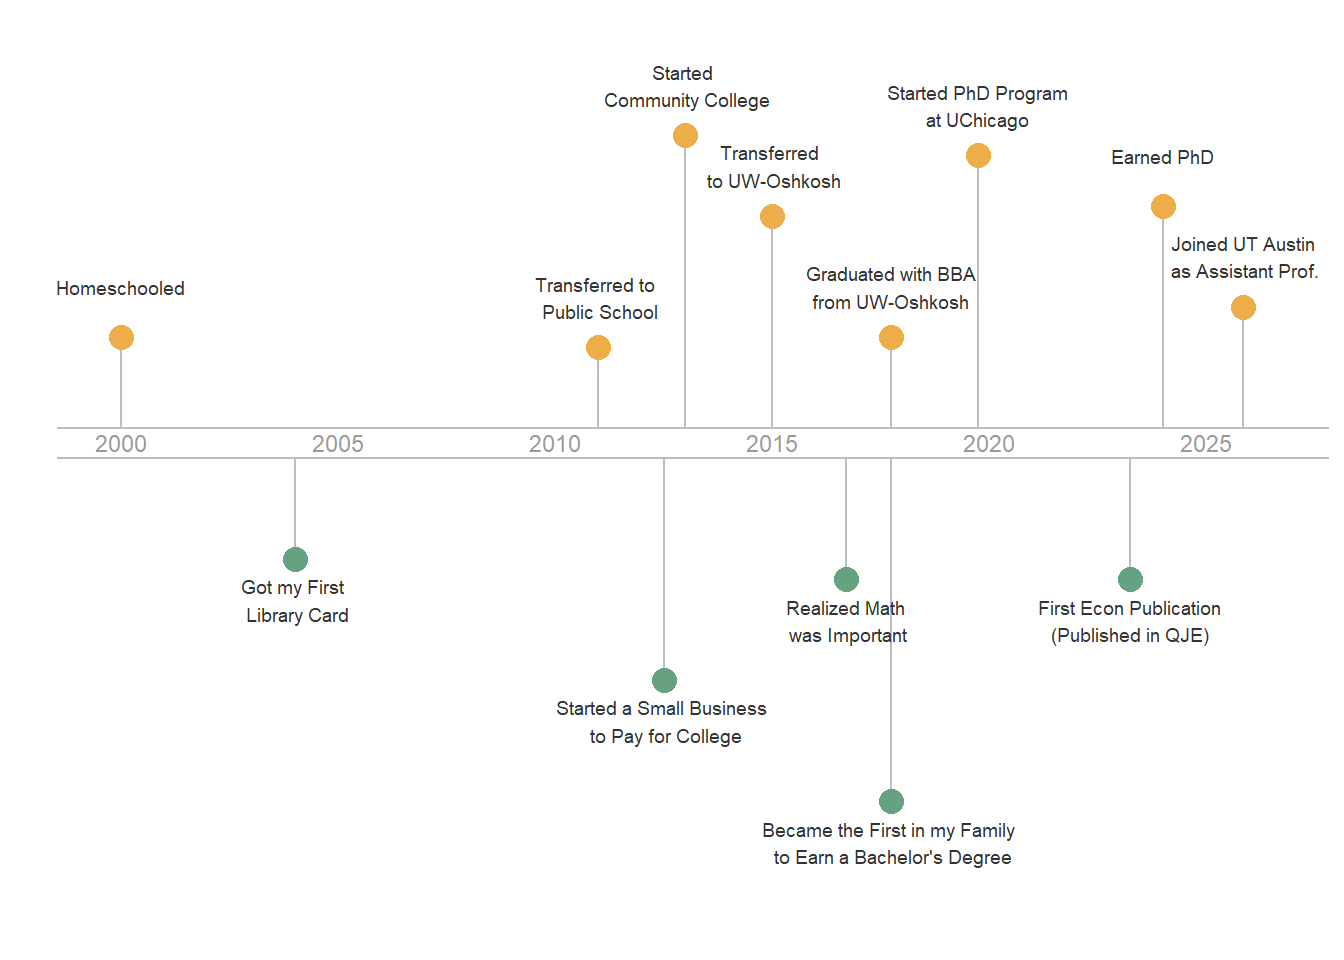
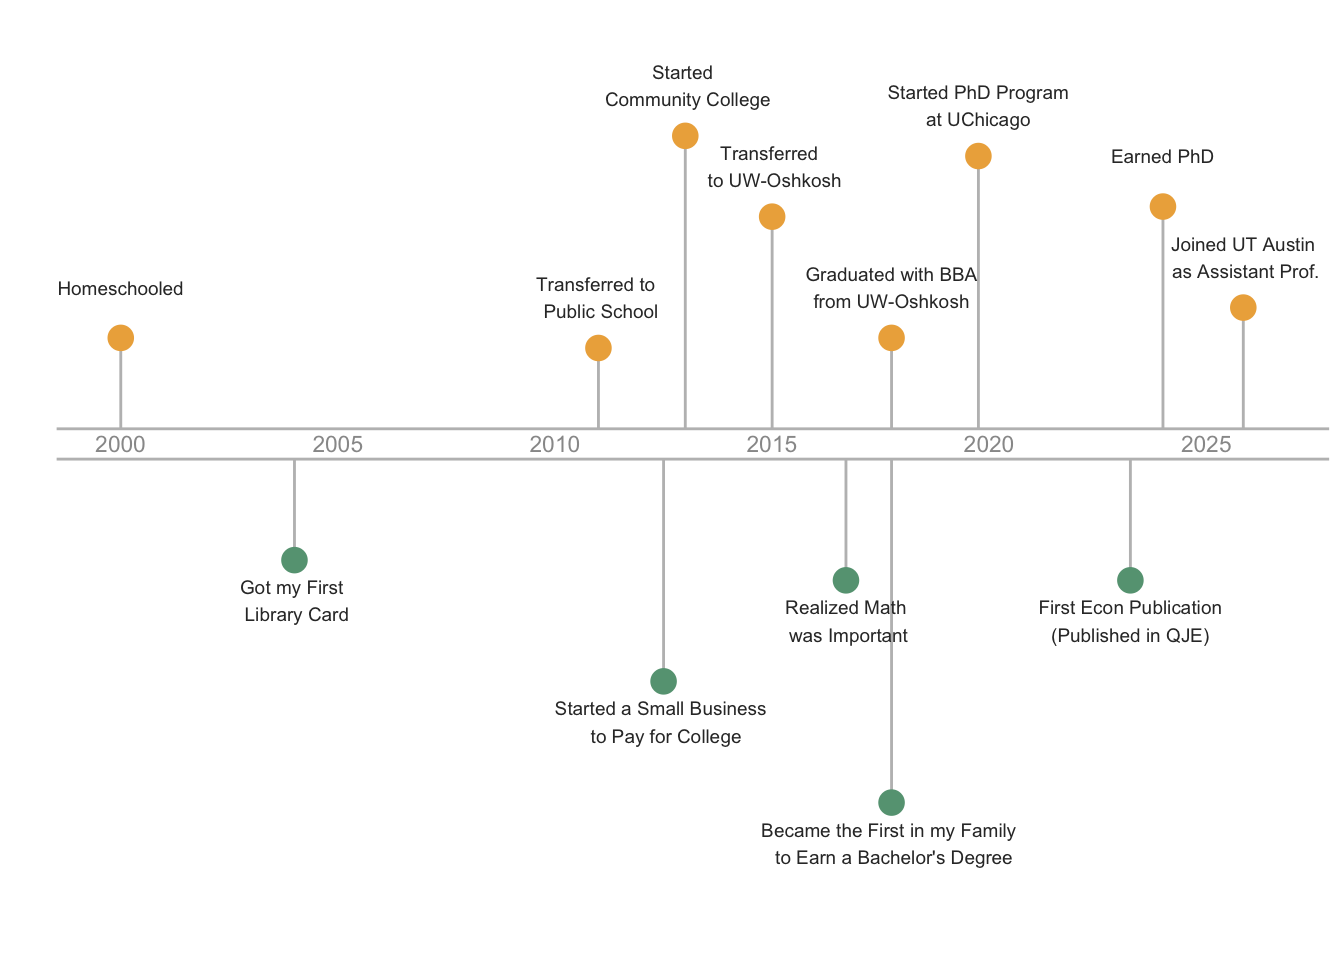
updated working paper

diff --git a/index.html b/index.html
@@ -13,7 +13,7 @@
 
 <title>About Me</title>
 
-<script src="site_libs/header-attrs-2.29/header-attrs.js"></script>
+<script src="site_libs/header-attrs-2.27/header-attrs.js"></script>
 <script src="site_libs/jquery-3.6.0/jquery-3.6.0.min.js"></script>
 <meta name="viewport" content="width=device-width, initial-scale=1" />
 <link href="site_libs/bootstrap-3.3.5/css/paper.min.css" rel="stylesheet" />
@@ -32,8 +32,8 @@
 <script src="site_libs/navigation-1.1/tabsets.js"></script>
 <link href="site_libs/highlightjs-9.12.0/default.css" rel="stylesheet" />
 <script src="site_libs/highlightjs-9.12.0/highlight.js"></script>
-<link href="site_libs/font-awesome-6.5.2/css/all.min.css" rel="stylesheet" />
-<link href="site_libs/font-awesome-6.5.2/css/v4-shims.min.css" rel="stylesheet" />
+<link href="site_libs/font-awesome-6.4.0/css/all.min.css" rel="stylesheet" />
+<link href="site_libs/font-awesome-6.4.0/css/v4-shims.min.css" rel="stylesheet" />
 
 <style type="text/css">
   code{white-space: pre-wrap;}
@@ -297,15 +297,15 @@ $(document).ready(function () {
 <img src="files/2022headshot.JPG" style="width:99%">
 </center>
 <p> </p>
-<p><font size="3">Hello! I’m an Assistant Professor in the LBJ school of
-Public Affairs at the University of Texas at Austin. I received my PhD
-from the Harris School of Public Policy at the University of Chicago
-where I also completed the Econometrics and Labor Economics fields in
-the Economics Department.</p>
+<p><font size="3">I’m an Assistant Professor in the LBJ School of Public
+Affairs at the University of Texas at Austin. I received my PhD from the
+Harris School of Public Policy at the University of Chicago where I also
+completed the Econometrics and Labor Economics fields in the Economics
+Department.</p>
 <p>In my research, I investigate the causes and consequences of
-inequality in variety of contexts. Much of my work is centered on
-understanding barriers to education –such as financial constraints or
-beliefs about academic abilities shaped by representation– and the role
+inequality in a variety of contexts. Much of my work is centered on
+understanding barriers to education — such as financial constraints or
+beliefs about academic abilities shaped by representation — and the role
 that education policy can play in eliminating them. I focus on
 non-traditional and informal educational contexts, including community
 colleges, homeschooling environments, and religious private schools.</p>

diff --git a/research.html b/research.html
@@ -13,7 +13,7 @@
 
 <title>Research</title>
 
-<script src="site_libs/header-attrs-2.29/header-attrs.js"></script>
+<script src="site_libs/header-attrs-2.27/header-attrs.js"></script>
 <script src="site_libs/jquery-3.6.0/jquery-3.6.0.min.js"></script>
 <meta name="viewport" content="width=device-width, initial-scale=1" />
 <link href="site_libs/bootstrap-3.3.5/css/paper.min.css" rel="stylesheet" />
@@ -32,8 +32,8 @@
 <script src="site_libs/navigation-1.1/tabsets.js"></script>
 <link href="site_libs/highlightjs-9.12.0/default.css" rel="stylesheet" />
 <script src="site_libs/highlightjs-9.12.0/highlight.js"></script>
-<link href="site_libs/font-awesome-6.5.2/css/all.min.css" rel="stylesheet" />
-<link href="site_libs/font-awesome-6.5.2/css/v4-shims.min.css" rel="stylesheet" />
+<link href="site_libs/font-awesome-6.4.0/css/all.min.css" rel="stylesheet" />
+<link href="site_libs/font-awesome-6.4.0/css/v4-shims.min.css" rel="stylesheet" />
 
 <style type="text/css">
   code{white-space: pre-wrap;}
@@ -303,16 +303,15 @@ $(document).ready(function () {
 <div id="working-papers" class="section level1">
 <h1><strong>Working Papers</strong></h1>
 <hr>
-<div
-id="impact-of-free-community-college-evidence-from-chicago-job-market-paper-link-to-paper"
+<div id="the-effect-of-merit-based-free-community-college-link-to-paper"
 class="section level4">
-<h4>“Impact of Free Community College: Evidence From Chicago”
-<strong>(Job Market Paper)</strong>
-<a href="https://uchicago.box.com/s/253wguiv6o0yd44abtu9mu3hpkqz4z9z"><strong>Link
+<h4>“The Effect of Merit-Based Free Community College”
+<a href="https://utexas.box.com/s/1y8772x1nzm75w4hfcgyge1dzrnqt3zb"><strong>Link
 to Paper</strong></a></h4>
-<div id="with-kelly-hallberg" class="section level5">
+<div id="with-kelly-hallberg-elijah-ruiz-and-marvin-slaughter"
+class="section level5">
 <h5><em>with <a href="https://kellyhallberg.wordpress.com/">Kelly
-Hallberg</a></em></h5>
+Hallberg</a>, Elijah Ruiz, and Marvin Slaughter</em></h5>
 </div>
 <div id="abstract" class="section level5">
 <h5><strong>Abstract</strong></h5>

diff --git a/problemsets.html b/problemsets.html
@@ -13,7 +13,7 @@
 
 <title>problemsets.knit</title>
 
-<script src="site_libs/header-attrs-2.29/header-attrs.js"></script>
+<script src="site_libs/header-attrs-2.27/header-attrs.js"></script>
 <script src="site_libs/jquery-3.6.0/jquery-3.6.0.min.js"></script>
 <meta name="viewport" content="width=device-width, initial-scale=1" />
 <link href="site_libs/bootstrap-3.3.5/css/paper.min.css" rel="stylesheet" />
@@ -32,8 +32,8 @@
 <script src="site_libs/navigation-1.1/tabsets.js"></script>
 <link href="site_libs/highlightjs-9.12.0/default.css" rel="stylesheet" />
 <script src="site_libs/highlightjs-9.12.0/highlight.js"></script>
-<link href="site_libs/font-awesome-6.5.2/css/all.min.css" rel="stylesheet" />
-<link href="site_libs/font-awesome-6.5.2/css/v4-shims.min.css" rel="stylesheet" />
+<link href="site_libs/font-awesome-6.4.0/css/all.min.css" rel="stylesheet" />
+<link href="site_libs/font-awesome-6.4.0/css/v4-shims.min.css" rel="stylesheet" />
 
 <style type="text/css">
   code{white-space: pre-wrap;}
@@ -297,6 +297,10 @@ program. For example, I typed the word “function” 188 times!</p>
 prominently considering how much time I spent checking second order
 conditions. </font></p>
 <center>
+<pre><code>## Warning: package &#39;pdftools&#39; was built under R version 4.3.1</code></pre>
+<pre><code>## Warning: package &#39;stringr&#39; was built under R version 4.3.1</code></pre>
+<pre><code>## Warning: package &#39;data.table&#39; was built under R version 4.3.3</code></pre>
+<pre><code>## Warning: package &#39;readr&#39; was built under R version 4.3.1</code></pre>
 </center>
 </div>
 

diff --git a/visualizations.html b/visualizations.html
@@ -13,7 +13,7 @@
 
 <title>Visualizations</title>
 
-<script src="site_libs/header-attrs-2.29/header-attrs.js"></script>
+<script src="site_libs/header-attrs-2.27/header-attrs.js"></script>
 <script src="site_libs/jquery-3.6.0/jquery-3.6.0.min.js"></script>
 <meta name="viewport" content="width=device-width, initial-scale=1" />
 <link href="site_libs/bootstrap-3.3.5/css/paper.min.css" rel="stylesheet" />
@@ -32,8 +32,8 @@
 <script src="site_libs/navigation-1.1/tabsets.js"></script>
 <link href="site_libs/highlightjs-9.12.0/default.css" rel="stylesheet" />
 <script src="site_libs/highlightjs-9.12.0/highlight.js"></script>
-<link href="site_libs/font-awesome-6.5.2/css/all.min.css" rel="stylesheet" />
-<link href="site_libs/font-awesome-6.5.2/css/v4-shims.min.css" rel="stylesheet" />
+<link href="site_libs/font-awesome-6.4.0/css/all.min.css" rel="stylesheet" />
+<link href="site_libs/font-awesome-6.4.0/css/v4-shims.min.css" rel="stylesheet" />
 
 <style type="text/css">
   code{white-space: pre-wrap;}
